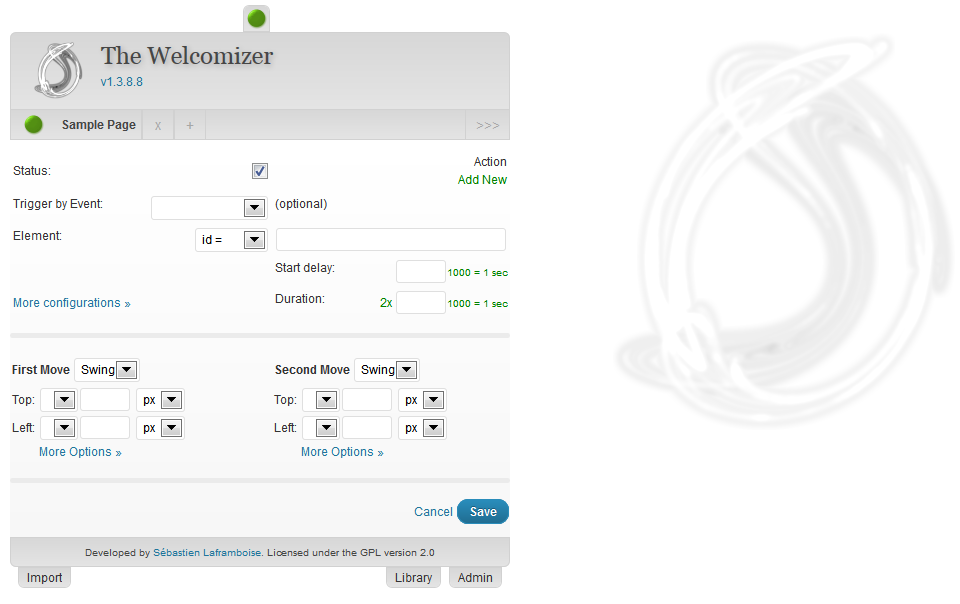
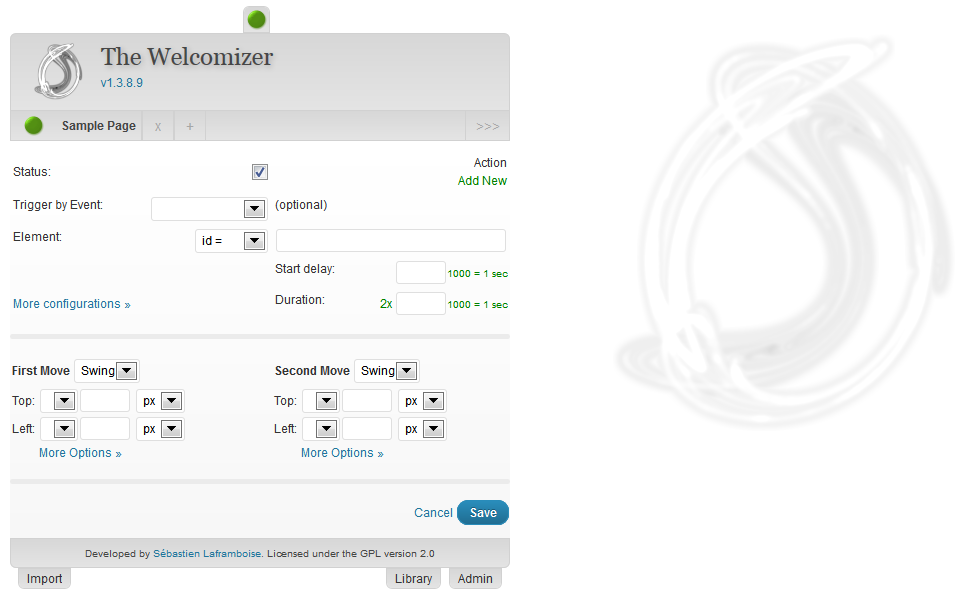
v1.3.8.9
git-svn-id: https://plugins.svn.wordpress.org/the-welcomizer/trunk@460070 b8457f37-d9ea-0310-8a92-e5e31aec5664

diff --git a/includes/twiz-style.css b/includes/twiz-style.css
@@ -6,6 +6,7 @@
 }
 #twiz_master {
     width: 500px;
+    margin-bottom: 80px;
     float: left;
 }
 #twiz_library_master {
@@ -74,10 +75,10 @@
     cursor: pointer;
 }
 #twiz_right_panel {
-    margin: 27px 0 0 15px;   
     min-height: 200px;
-    color: #464646;
     min-width: 415px;
+    margin: 27px 0 0 15px;   
+    color: #464646;
 }
 #twiz_vertical_menu,
 #twiz_right_panel{

diff --git a/includes/twiz.ajax.class.php b/includes/twiz.ajax.class.php
@@ -634,6 +634,7 @@ class TwizAjax extends Twiz{
         var textid = $(this).attr("name");
         var numid = textid.substring(13, textid.length);
         $("#twiz_vertical_menu").hide();   
+        $("#twiz_right_panel").css({"position":"relative", "top":$(this).offset().top - 203});
         if((twiz_view_id != numid)&&(twiz_view_id!="edit")){
             $("#twiz_list_tr_action_" + twiz_view_id).css("visibility", "hidden");
             $("#twiz_list_tr_action_" + numid).css("visibility", "visible");

diff --git a/includes/twiz.class.php b/includes/twiz.class.php
@@ -397,7 +397,7 @@ class Twiz{
         $this->pluginUrl  = $pluginUrl;
         $this->pluginDir  = $pluginDir;
         $this->pluginName = __('The Welcomizer', 'the-welcomizer');
-        $this->version    = '1.3.8.8';
+        $this->version    = '1.3.8.9';
         $this->dbVersion  = '2.56';
         $this->table      = $wpdb->prefix .'the_welcomizer';
         $this->logoUrl    = '/images/twiz-logo.png';

diff --git a/twiz-index.php b/twiz-index.php
@@ -1,7 +1,7 @@
 <?php
 /*
 Plugin Name: The Welcomizer
-Version: 1.3.8.8
+Version: 1.3.8.9
 Plugin URI: http://www.sebastien-laframboise.com/wordpress/plugins-wordpress/the-welcomizer
 Description: This plugin allows you to animate your blog using jQuery effects. (100% AJAX) + .js/.css Includer.
 Author: S&#233;bastien Laframboise
